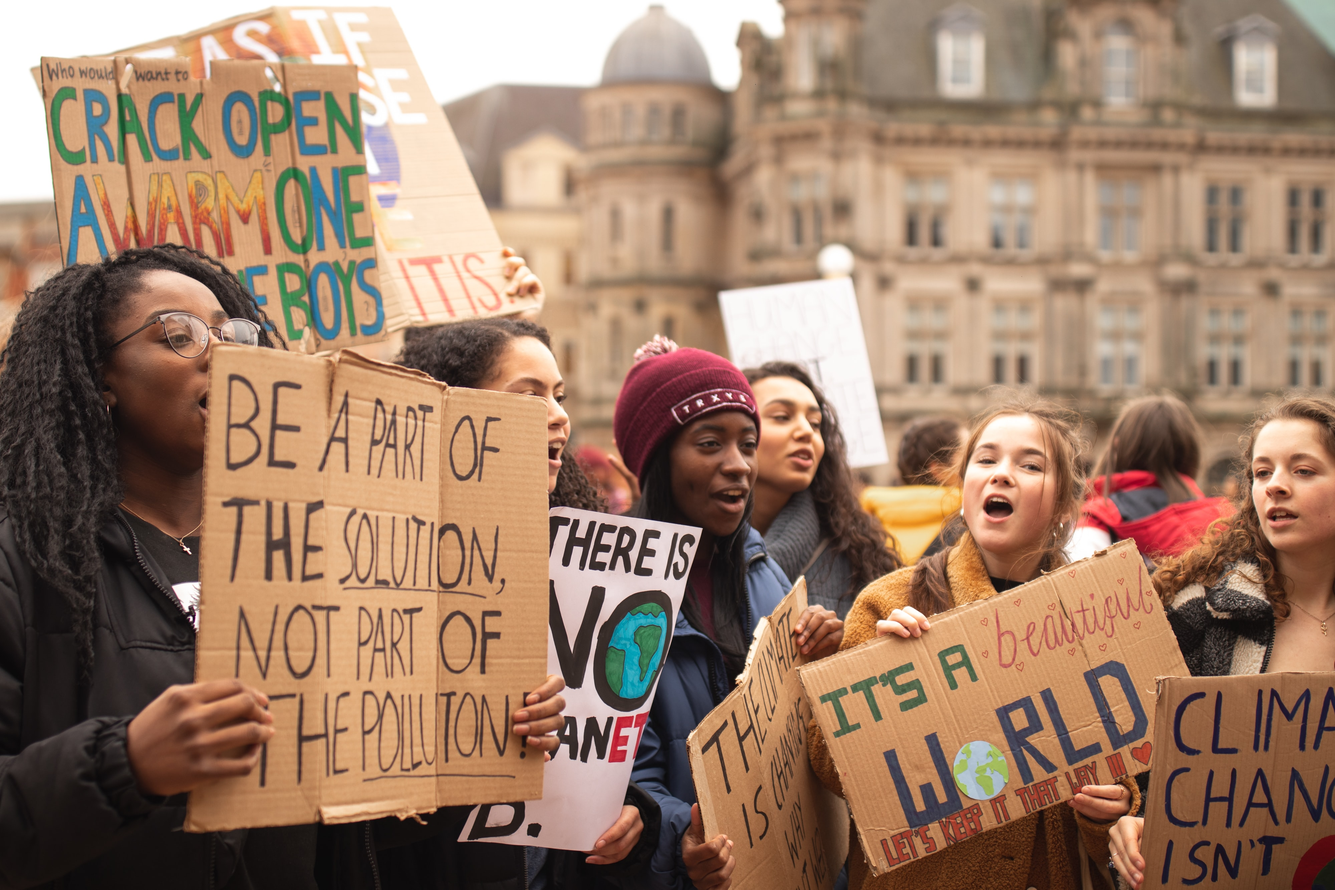
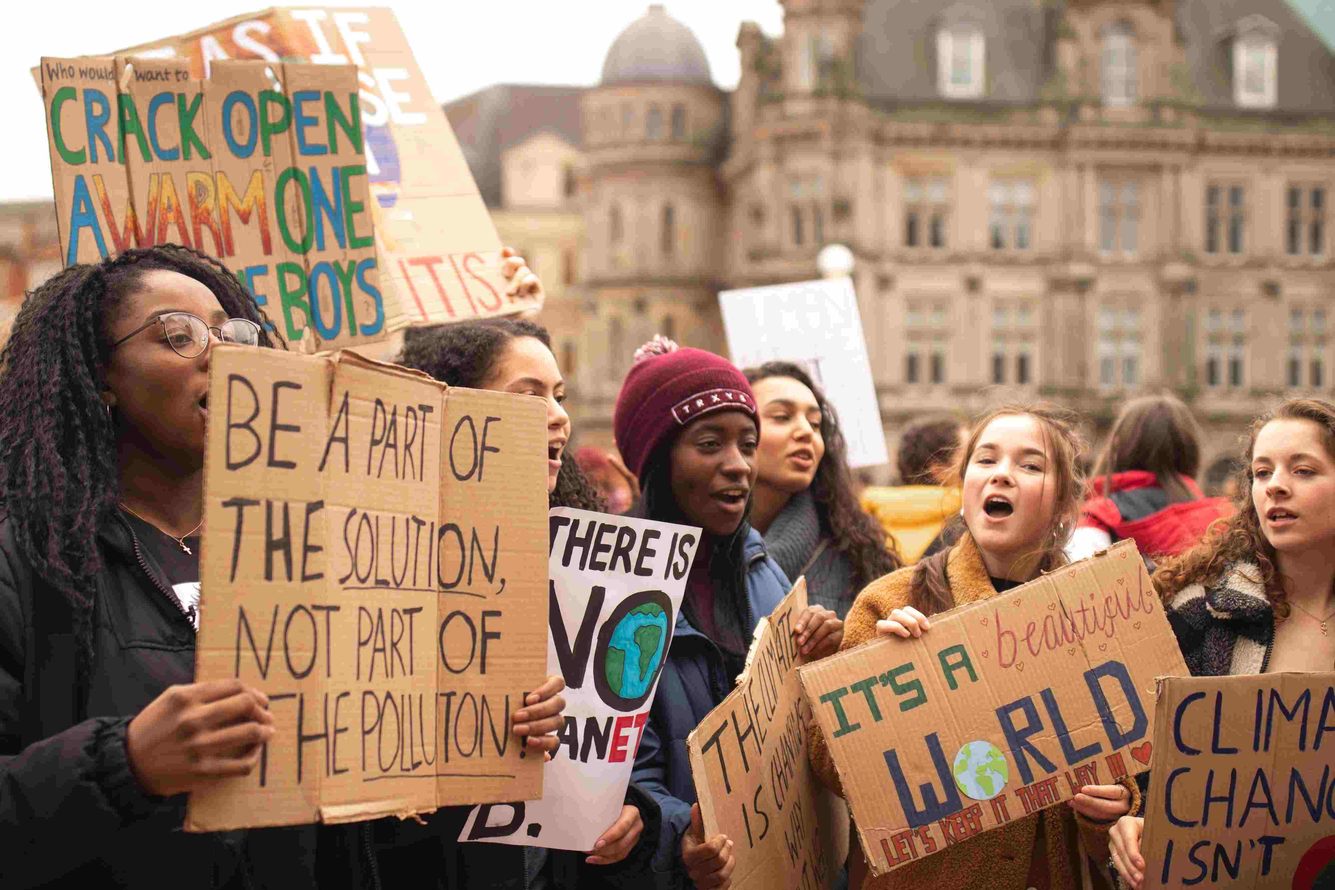
Image Compressed

diff --git a/src/components/home/sections/constants.js b/src/components/home/sections/constants.js
@@ -8,7 +8,7 @@ import SDG3Grey from '../../../images/SDG3-greyscale.jpg';
 import Godan from '../../../images/Godan.jpeg';
 import WhatIReallyReallyWant from '../../../images/WhatIReallyReallyWant.jpg';
 import LetsTalk from '../../../images/LetsTalk.JPG';
-import End7 from '../../../images/End7.JPG';
+import End7 from '../../../images/End7.jpeg';
 
 
 export const SDGs = [
